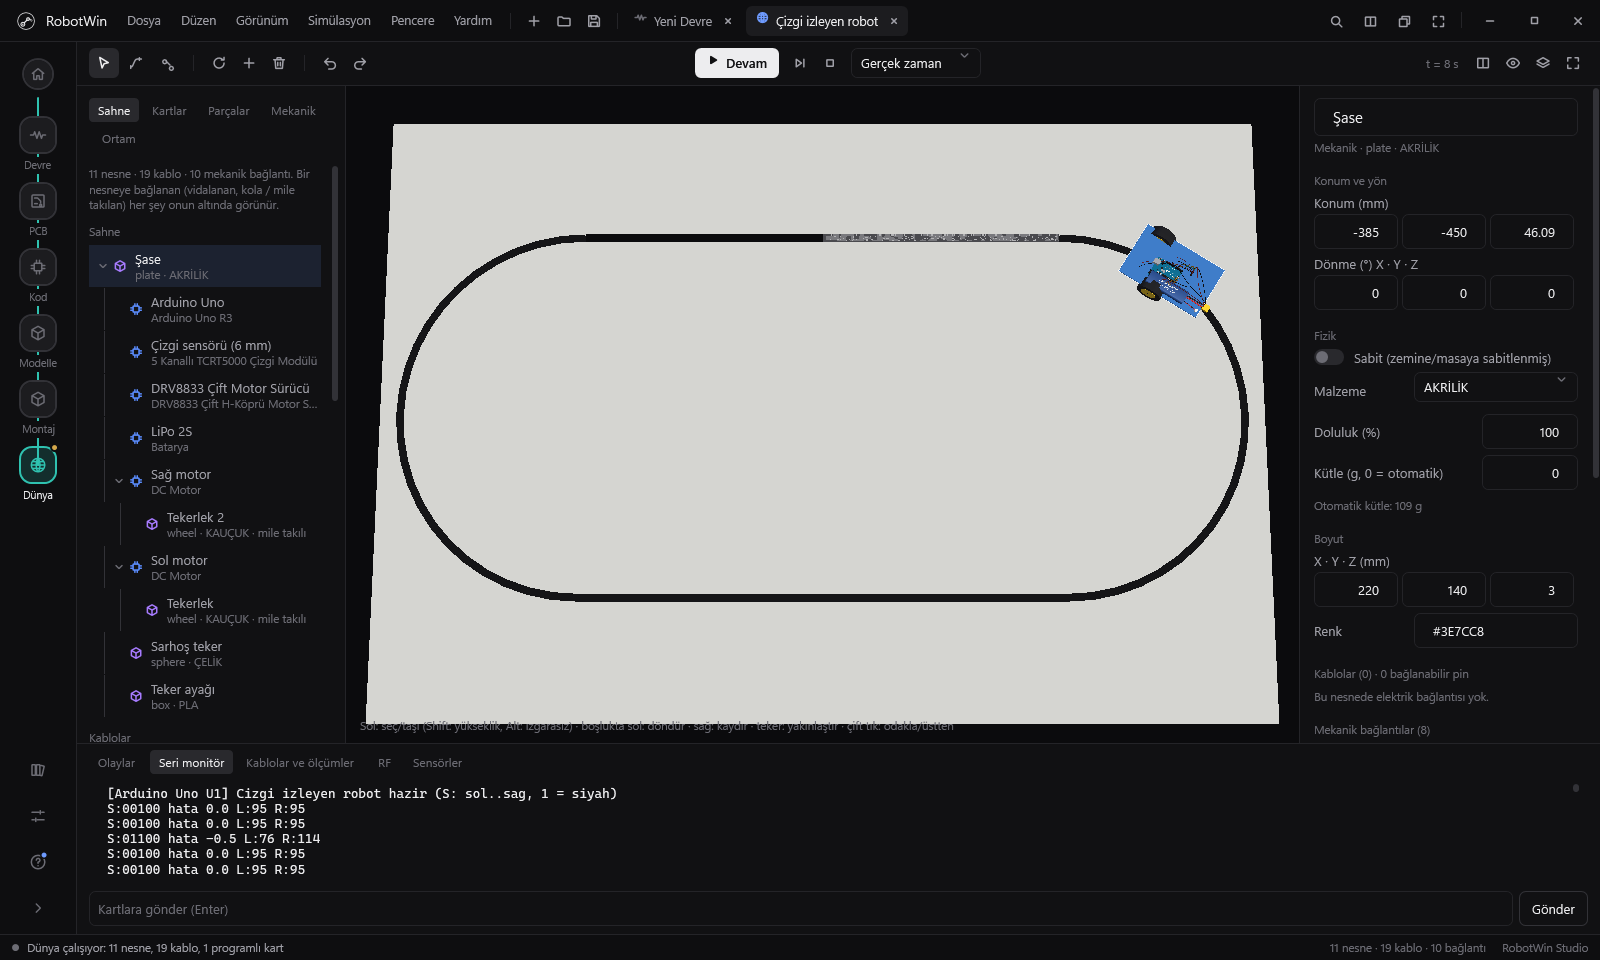
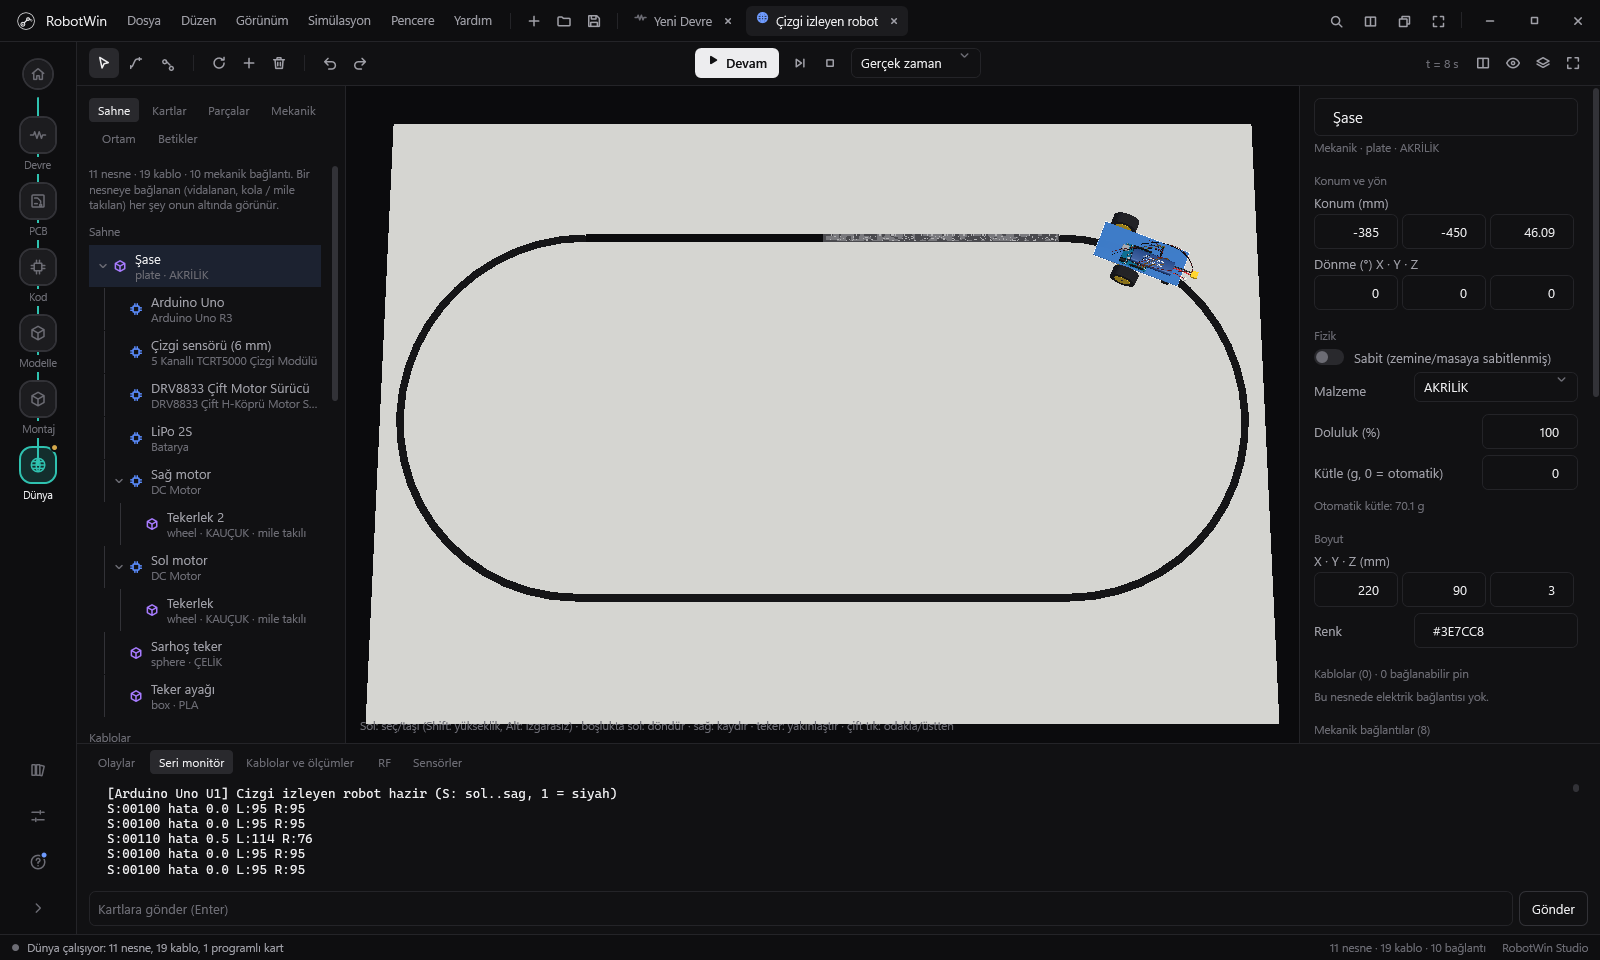
İç içe geçme engellendi: montaj içinde de çarpışma, başlangıç çakışma denetimi
- Önceden bir montajdaki tüm parçalar birbiriyle çarpışmıyordu (tekerlek şaseden geçebiliyordu).
  Artık yalnızca doğrudan ya da tek ara gövdeyle bağlı parçalar (ör. mile takılı tekerlek–motor)
  çarpışmayı atlar; diğer her şey gerçekteki gibi çarpışır.
- Dünya başlarken iç içe başlayan parçalar olay günlüğüne uyarı olarak yazılır;
  --overlap-report tüm şablonları denetler (hepsi temiz).
- Düzeltilen yerleşimler: çizgi izleyen (tekerlekler şasenin 18,9 mm içindeydi, pil tekerleğe
  değiyordu), mekanum, araba (tekerlek–şase arası boşluk). Başsız çalıştırıcı arabayı
  ayrıntılı TT motor ölçüleriyle kurar (tekerlek kendi milinde döner).

Changed region(s): [[0.6875, 0.2188, 0.7812, 0.3438], [0.9688, 0.4375, 1.0, 0.5]]

diff --git a/CoreSim/src/RobotTwin.CoreSim/Sandbox/WorldPhysics.Overlap.cs b/CoreSim/src/RobotTwin.CoreSim/Sandbox/WorldPhysics.Overlap.cs
@@ -1,0 +1,144 @@
+using System;
+using System.Collections.Generic;
+using System.Linq;
+using RobotTwin.CoreSim.Mechanics;
+
+namespace RobotTwin.CoreSim.Sandbox
+{
+    /// <summary>
+    /// Collision filtering inside assemblies and detection of parts that start inside each other.
+    /// Only parts that are joined directly, or through a single intermediate body (a wheel on a
+    /// motor's shaft rotor, two parts screwed onto the same plate) skip collisions with each other;
+    /// everything else in an assembly collides like in the real world, so a wheel cannot pass
+    /// through the chassis it is mounted under.
+    /// </summary>
+    public sealed partial class WorldPhysics
+    {
+        /// <summary>Joint hops within which two bodies of one assembly do not collide.</summary>
+        public const int NoCollideHops = 2;
+
+        private void FilterAssemblyCollisions()
+        {
+            var adjacency = new Dictionary<SceneBody, List<SceneBody>>();
+            void Link(SceneBody a, SceneBody b)
+            {
+                if (!adjacency.TryGetValue(a, out var la)) adjacency[a] = la = new List<SceneBody>();
+                if (!adjacency.TryGetValue(b, out var lb)) adjacency[b] = lb = new List<SceneBody>();
+                la.Add(b);
+                lb.Add(a);
+            }
+
+            foreach (var j in Scene.Joints)
+            {
+                if (j.B != null) Link(j.A, j.B);
+            }
+
+            var seen = new HashSet<(SceneBody, SceneBody)>();
+            foreach (var start in adjacency.Keys)
+            {
+                // Breadth-first up to NoCollideHops joints away.
+                var depth = new Dictionary<SceneBody, int> { [start] = 0 };
+                var queue = new Queue<SceneBody>();
+                queue.Enqueue(start);
+                while (queue.Count > 0)
+                {
+                    var b = queue.Dequeue();
+                    int d = depth[b];
+                    if (d == NoCollideHops) continue;
+                    foreach (var n in adjacency[b])
+                    {
+                        if (depth.ContainsKey(n)) continue;
+                        depth[n] = d + 1;
+                        queue.Enqueue(n);
+                    }
+                }
+
+                foreach (var other in depth.Keys)
+                {
+                    if (ReferenceEquals(other, start)) continue;
+                    var key = start.GetHashCode() <= other.GetHashCode() ? (start, other) : (other, start);
+                    if (seen.Add(key)) Scene.NoCollide.Add(key);
+                }
+            }
+        }
+
+        /// <summary>
+        /// Pairs of objects whose collision shapes overlap by more than <paramref name="tolerance"/> (m)
+        /// although they are meant to collide — e.g. a wheel placed inside the chassis. Uses oriented
+        /// bounding boxes of the collision shapes (separating-axis test) and reports the overlap depth.
+        /// </summary>
+        public IReadOnlyList<(string A, string B, double Depth)> FindInterpenetrations(double tolerance = 0.0005)
+        {
+            var result = new List<(string, string, double)>();
+            var ignore = new HashSet<(SceneBody, SceneBody)>();
+            foreach (var (a, b) in Scene.NoCollide)
+            {
+                ignore.Add((a, b));
+                ignore.Add((b, a));
+            }
+
+            var list = _items.Values.Where(i => i.Body.Collides && i.Body.EffectiveShape != null).ToList();
+            for (int x = 0; x < list.Count; x++)
+            {
+                for (int y = x + 1; y < list.Count; y++)
+                {
+                    var a = list[x].Body;
+                    var b = list[y].Body;
+                    if (a.IsStatic && b.IsStatic) continue;
+                    if (ignore.Contains((a, b))) continue;
+                    double depth = ObbOverlap(a, b);
+                    if (depth > tolerance) result.Add((list[x].Object.Id, list[y].Object.Id, depth));
+                }
+            }
+
+            return result;
+        }
+
+        private static (Vec3 C, Vec3[] Axes, Vec3 Half) Obb(SceneBody body)
+        {
+            var s = body.EffectiveShape!;
+            Vec3 half = s.Kind switch
+            {
+                ShapeKind.Box => s.HalfExtents,
+                ShapeKind.Sphere => new Vec3(s.Radius, s.Radius, s.Radius),
+                ShapeKind.Cylinder => new Vec3(s.Radius, s.Radius, s.HalfHeight),
+                _ => s.HalfExtents.LengthSquared > 0 ? s.HalfExtents : new Vec3(s.BoundingRadius, s.BoundingRadius, s.BoundingRadius)
+            };
+            var q = body.Orientation;
+            return (body.Position, new[] { q.Rotate(Vec3.UnitX), q.Rotate(Vec3.UnitY), q.Rotate(Vec3.UnitZ) }, half);
+        }
+
+        /// <summary>Penetration depth of two oriented boxes (0 when separated), minimum over the 15 SAT axes.</summary>
+        private static double ObbOverlap(SceneBody ba, SceneBody bb)
+        {
+            var a = Obb(ba);
+            var b = Obb(bb);
+            var d = b.C - a.C;
+            double min = double.PositiveInfinity;
+            IEnumerable<Vec3> Axes()
+            {
+                foreach (var u in a.Axes) yield return u;
+                foreach (var v in b.Axes) yield return v;
+                foreach (var u in a.Axes)
+                {
+                    foreach (var v in b.Axes)
+                    {
+                        var c = u.Cross(v);
+                        if (c.LengthSquared > 1e-10) yield return c.Normalized();
+                    }
+                }
+            }
+
+            foreach (var axis in Axes())
+            {
+                double ra = a.Half.X * Math.Abs(a.Axes[0].Dot(axis)) + a.Half.Y * Math.Abs(a.Axes[1].Dot(axis)) + a.Half.Z * Math.Abs(a.Axes[2].Dot(axis));
+                double rb = b.Half.X * Math.Abs(b.Axes[0].Dot(axis)) + b.Half.Y * Math.Abs(b.Axes[1].Dot(axis)) + b.Half.Z * Math.Abs(b.Axes[2].Dot(axis));
+                double overlap = ra + rb - Math.Abs(d.Dot(axis));
+                if (overlap <= 0) return 0;
+                if (overlap < min) min = overlap;
+            }
+
+            return min;
+        }
+    }
+}

diff --git a/CoreSim/tests/RobotTwin.CoreSim.Tests/AutomationApiTests.cs b/CoreSim/tests/RobotTwin.CoreSim.Tests/AutomationApiTests.cs
@@ -70,7 +70,7 @@ namespace RobotTwin.CoreSim.Tests
         {
             (Vec3, string) Run(int seed)
             {
-                var r = new WorldRunner(WorldExamples.Car(PartLibrary.Default), Options(seed));
+                var r = new WorldRunner(WorldExamples.CarDetailed(PartLibrary.Default), Options(seed));
                 r.Sensors.Add(new SensorSpec { Name = "imu", Type = "imu", Object = "O1", Params = new JsonObject { ["accel_noise"] = 0.05 } });
                 r.DriveDifferential(0.15, 0.4, new JsonObject());
                 for (int i = 0; i < 60; i++) r.Step(0.01);
@@ -91,7 +91,7 @@ namespace RobotTwin.CoreSim.Tests
         [Fact]
         public void ResetRestoresTheInitialStateAndReplaysIdentically()
         {
-            var r = new WorldRunner(WorldExamples.Car(PartLibrary.Default), Options(1));
+            var r = new WorldRunner(WorldExamples.CarDetailed(PartLibrary.Default), Options(1));
             var start = PoseOf(r, "O1");
             for (int i = 0; i < 40; i++) r.Step(0.01);
             var first = PoseOf(r, "O1");
@@ -111,7 +111,7 @@ namespace RobotTwin.CoreSim.Tests
         [Fact]
         public void StepAdvancesExactlyTheRequestedSimulatedTime()
         {
-            var r = new WorldRunner(WorldExamples.Car(PartLibrary.Default), Options());
+            var r = new WorldRunner(WorldExamples.CarDetailed(PartLibrary.Default), Options());
             for (int i = 0; i < 7; i++) Assert.Equal(0.013, r.Step(0.013), 12);
             Assert.InRange(r.Time, 0.091 - 1e-9, 0.091 + 1e-9);
             Assert.True(r.LastStepWall > 0);
@@ -153,7 +153,7 @@ namespace RobotTwin.CoreSim.Tests
         [Fact]
         public void DifferentialDriveGoesForwardAndTurnsLeft()
         {
-            var r = new WorldRunner(WorldExamples.Car(PartLibrary.Default), Options());
+            var r = new WorldRunner(WorldExamples.CarDetailed(PartLibrary.Default), Options());
             for (int i = 0; i < 30; i++) r.Step(0.01);   // settle
             Assert.True(r.TryGetBody("O1", out var s0));
             r.DriveDifferential(0.2, 0, new JsonObject());
@@ -162,7 +162,7 @@ namespace RobotTwin.CoreSim.Tests
             var fwd = s0.Orientation.Rotate(Vec3.UnitX);
             double along = (s1.Position - s0.Position).Dot(fwd);
             _out.WriteLine($"forward {along:F3} m in 1 s");
-            Assert.InRange(along, 0.12, 0.26);
+            Assert.InRange(along, 0.12, 0.30);   // open-loop helper: 0.2 m/s commanded
             r.DriveDifferential(0, 1.0, new JsonObject());
             double yaw0 = s1.Orientation.ToEuler().Yaw;
             for (int i = 0; i < 100; i++) r.Step(0.01);
@@ -189,7 +189,7 @@ namespace RobotTwin.CoreSim.Tests
         [Fact]
         public void VirtualLidarAndCameraSeeAnObstacle()
         {
-            var w = WorldExamples.Car(PartLibrary.Default);
+            var w = WorldExamples.CarDetailed(PartLibrary.Default);
             var wall = w.AddBody("box", 0.1, 1.0, 0.3, new WorldPose { X = 0.6 });
             wall.IsStatic = true;
             var r = new WorldRunner(w, Options());
@@ -264,7 +264,7 @@ namespace RobotTwin.CoreSim.Tests
         [Fact]
         public void BakedGeometryRoundTripsAndDrivesTheSameRun()
         {
-            var world = WorldExamples.Car(PartLibrary.Default);
+            var world = WorldExamples.CarDetailed(PartLibrary.Default);
             var approx = new ApproximateGeometry(world, PartLibrary.Default);
             var baked = BakedGeometry.Parse(BakedGeometry.Export(world, approx), approx);
             foreach (var o in world.Objects)

diff --git a/CoreSim/src/RobotTwin.CoreSim/Sandbox/WorldExamples.cs b/CoreSim/src/RobotTwin.CoreSim/Sandbox/WorldExamples.cs
@@ -11,13 +11,21 @@ namespace RobotTwin.CoreSim.Sandbox
         /// <param name="shaftX">Output shaft position along the motor (m, motor frame).</param>
         /// <param name="shaftZ">Output shaft height above the motor base (m).</param>
         /// <param name="shaftTip">Where the wheel hub sits on the shaft, sideways from the motor centre (m).</param>
+        /// <summary>
+        /// The car laid out for the app's detailed TT gear motor (gearbox 22.4 mm high, output shaft
+        /// 22.7 mm behind the motor origin, 11.2 mm up, shaft end 18.4 mm to the side) — the geometry
+        /// the Studio and the headless runner use, so the wheels sit exactly on their axles.
+        /// </summary>
+        public static WorldDocument CarDetailed(PartLibrary lib) => Car(lib, 0.0224, -0.0227, 0.0112, 0.0184);
+
         public static WorldDocument Car(PartLibrary lib, double motorHeight = 0.0188, double shaftX = -0.011, double shaftZ = 0.0094, double shaftTip = 0.0185)
         {
             var w = new WorldDocument { Title = "Araba" };
             // Motors hang under the plate with their shafts at wheel-radius height, so the 65 mm wheels touch the floor.
             const double r = 0.0325;
             double motorZ = r - shaftZ, plateZ = motorZ + motorHeight;
-            var plate = w.AddBody("plate", 0.16, 0.10, 0.003, new WorldPose { X = 0, Z = plateZ }, "PLA");
+            // 90 mm wide: the wheels run 5 mm clear of the chassis edge (they collide with it like in reality).
+            var plate = w.AddBody("plate", 0.16, 0.09, 0.003, new WorldPose { X = 0, Z = plateZ }, "PLA");
             var ml = w.AddComponent(lib, "motor-tt", new WorldPose { X = -0.03, Y = 0.03, Z = motorZ });
             var mr = w.AddComponent(lib, "motor-tt", new WorldPose { X = -0.03, Y = -0.03, Z = motorZ, Yaw = 180 });
             var wl = w.AddBody("wheel", 0.065, 0.026, 0.026, new WorldPose { X = -0.03 + shaftX, Y = 0.03 + shaftTip + 0.015, Z = 0 });

diff --git a/Studio/RobotWin.Studio/Examples/SenseTemplates.cs b/Studio/RobotWin.Studio/Examples/SenseTemplates.cs
@@ -59,7 +59,7 @@ namespace RobotWin.Studio.Examples
             double motorZ = r - shaftZ, plateZ = motorZ + motorHeight;
             double x0 = -0.385, y0 = -0.45;   // sensor bar starts on the bottom straight, heading +X
 
-            var plate = w.AddBody("plate", 0.22, 0.14, 0.003, new WorldPose { X = x0, Y = y0, Z = plateZ }, "AKRİLİK");
+            var plate = w.AddBody("plate", 0.22, 0.09, 0.003, new WorldPose { X = x0, Y = y0, Z = plateZ }, "AKRİLİK");   // 90 mm: the wheels run clear of the edges
             plate.Name = "Şase";
             plate.Color = "#3E7CC8";
             var ml = w.AddComponent(Lib, "motor-tt", new WorldPose { X = x0 - 0.04, Y = y0 + 0.03, Z = motorZ });
@@ -79,7 +79,7 @@ namespace RobotWin.Studio.Examples
             uno.Parameters["firmware"] = "builtin:line-follower.hex";
             uno.Parameters["usb"] = "false";
             var drv = w.AddComponent(Lib, "drv8833", new WorldPose { X = x0 + 0.045, Y = y0 + 0.035, Z = plateZ + 0.003 });
-            var bat = w.AddComponent(Lib, "bat-2s-lipo", new WorldPose { X = x0 + 0.01, Y = y0 - 0.045, Z = plateZ + 0.003 });
+            var bat = w.AddComponent(Lib, "bat-2s-lipo", new WorldPose { X = x0 + 0.03, Y = y0 - 0.012, Z = plateZ + 0.003 });   // between the wheels, not over them
             bat.Name = "LiPo 2S";
             var bar = w.AddComponent(Lib, "line-5ch-module", new WorldPose { X = x0 + 0.085, Y = y0, Z = 0.006 });
             bar.Name = "Çizgi sensörü (6 mm)";

diff --git a/Studio/RobotWin.Studio/MainWindow.xaml.cs b/Studio/RobotWin.Studio/MainWindow.xaml.cs
@@ -60,6 +60,23 @@ namespace RobotWin.Studio
         private WindowBehavior? _behavior;
         private readonly PerfOverlay _perf = new PerfOverlay();
 
+        /// <summary>--overlap-report: interpenetrating parts of every world template.</summary>
+        public string OverlapReportAllTemplates()
+        {
+            var sb = new System.Text.StringBuilder();
+            foreach (var t in Examples.WorldTemplates.All)
+            {
+                NewWorld(t.Build());
+                Navigate("world");
+                UpdateLayout();
+                var list = _world.OverlapReport();
+                sb.AppendLine($"{t.Id}: {(list.Count == 0 ? "temiz" : list.Count + " çakışma")}");
+                foreach (var l in list) sb.AppendLine("    " + l);
+            }
+
+            return sb.ToString();
+        }
+
         /// <summary>--bench: run / stop the active world.</summary>
         public void RunWorldForBench() => _world.ToggleRun();
 

diff --git a/Studio/RobotWin.Studio/Pages/WorldPage.xaml.cs b/Studio/RobotWin.Studio/Pages/WorldPage.xaml.cs
@@ -1166,6 +1166,15 @@ namespace RobotWin.Studio.Pages
 
         private void OnRun(object sender, RoutedEventArgs e) => Run();
 
+        /// <summary>Parts of the active world that start inside each other (for --overlap-report and checks).</summary>
+        public System.Collections.Generic.IReadOnlyList<string> OverlapReport()
+        {
+            var world = World;
+            if (world == null) return System.Array.Empty<string>();
+            var physics = RobotTwin.CoreSim.Sandbox.WorldPhysics.Build(world, Scene.GeometryOf, null);
+            return physics.FindInterpenetrations(0.001).Select(o => $"{world.Find(o.A)?.Name ?? o.A} ↔ {world.Find(o.B)?.Name ?? o.B}: {o.Depth * 1000:F1} mm").ToList();
+        }
+
         /// <summary>Run / pause / resume the world simulation (menu bar).</summary>
         public void ToggleRun() => Run();
 

diff --git a/Studio/RobotWin.Studio/World/WorldSession.cs b/Studio/RobotWin.Studio/World/WorldSession.cs
@@ -121,6 +121,11 @@ namespace RobotWin.Studio.World
                 try
                 {
                     Physics = WorldPhysics.Build(world, geometry, Circuit);
+                    // Parts that start inside each other would be pushed apart violently: say which ones.
+                    foreach (var (oa, ob, depth) in Physics.FindInterpenetrations(0.001))
+                    {
+                        Log.Add(new SimLogEntry(0, "fizik", $"{world.Find(oa)?.Name ?? oa} ile {world.Find(ob)?.Name ?? ob} iç içe başlıyor ({depth * 1000:F1} mm); konumlarını ayırın.", AnalogEventKind.Warning));
+                    }
                 }
                 catch (Exception ex) when (ex is ArgumentException || ex is InvalidOperationException)
                 {

diff --git a/Studio/RobotWin.Studio/App.xaml.cs b/Studio/RobotWin.Studio/App.xaml.cs
@@ -82,6 +82,17 @@ namespace RobotWin.Studio
             var window = new MainWindow();
             MainWindow = window;
 
+            if (Arg("--overlap-report") is { } overlapPath)
+            {
+                window.Left = -2000;
+                window.ShowActivated = false;
+                window.ShowInTaskbar = false;
+                window.Show();
+                File.WriteAllText(overlapPath, window.OverlapReportAllTemplates());
+                window.ForceClose();
+                return;
+            }
+
             if (Arg("--bench") is { } benchPath)
             {
                 RunBench(window, benchPath, Arg("--bench-seconds"));

diff --git a/CoreSim/tests/RobotTwin.CoreSim.Tests/ReadyPartsTests.cs b/CoreSim/tests/RobotTwin.CoreSim.Tests/ReadyPartsTests.cs
@@ -290,7 +290,7 @@ namespace RobotTwin.CoreSim.Tests
         {
             var w = new WorldDocument();
             double motorZ = 0.0325 - TtPivot.Z;
-            var chassis = w.AddBody("plate", 0.17, 0.10, 0.003, new WorldPose { Z = motorZ + 0.0188 });
+            var chassis = w.AddBody("plate", 0.17, 0.08, 0.003, new WorldPose { Z = motorZ + 0.0188 });   // wheels run clear of the edge
             chassis.MassKg = 0.06;
             var bat = w.AddComponent(Lib, "bat-4aa", new WorldPose { Z = chassis.Pose.Z + 0.003 });
             w.Joints.Add(new WorldJoint { Id = w.NextId("J"), ObjectA = bat.Id, ObjectB = chassis.Id });

diff --git a/CoreSim/src/RobotTwin.CoreSim/Sandbox/WorldPhysics.cs b/CoreSim/src/RobotTwin.CoreSim/Sandbox/WorldPhysics.cs
@@ -103,7 +103,7 @@ namespace RobotTwin.CoreSim.Sandbox
             p.BuildMachines(world);   // [arm] robot arms, tools, conveyors, light curtains
             foreach (var j in world.Joints) p.AddJoint(world, j);
             p.FinishReady(world);   // [objs] propellers on shafts, light rotors
-            p.IgnoreSelfCollisions();
+            p.FilterAssemblyCollisions(); // only parts within two joints of each other skip collisions (WorldPhysics.Overlap.cs)
             p.Sdk = RobotTwin.CoreSim.Sdk.WorldSdkRuntime.Attach(world, p, circuit);   // [sdk] environment, force fields, behaviours
             return p;
         }

diff --git a/CoreSim/tests/RobotTwin.CoreSim.Tests/WorldPhysicsTests.cs b/CoreSim/tests/RobotTwin.CoreSim.Tests/WorldPhysicsTests.cs
@@ -169,6 +169,16 @@ namespace RobotTwin.CoreSim.Tests
         }
 
         [Fact]
+        public void CarExampleStartsWithoutPartsInsideEachOther()
+        {
+            var w = WorldExamples.Car(Lib);
+            var p = WorldPhysics.Build(w, Geometry, null);
+            var overlaps = p.FindInterpenetrations();
+            foreach (var (a, b, d) in overlaps) _out.WriteLine($"{w.Find(a)?.Name} ↔ {w.Find(b)?.Name}: {d * 1000:F1} mm");
+            Assert.Empty(overlaps);
+        }
+
+        [Fact]
         public void TwoWheelCarDrivesAcrossTheFloor()
         {
             var w = WorldExamples.Car(Lib);

diff --git a/Studio/RobotWin.Studio/Examples/WorldTemplates.Ready.cs b/Studio/RobotWin.Studio/Examples/WorldTemplates.Ready.cs
@@ -91,7 +91,7 @@ namespace RobotWin.Studio.Examples
             var wheel = ReadyParts.Find("mecanum-65-a")!;
             double R = wheel.Radius;
             double top = R + 0.0112;
-            var chassis = w.AddBody("plate", 0.19, 0.10, 0.003, new WorldPose { Z = top }, "AKRİLİK");
+            var chassis = w.AddBody("plate", 0.19, 0.07, 0.003, new WorldPose { Z = top }, "AKRİLİK");   // wheels run clear of the edge
             chassis.Name = "Şase";
             chassis.Color = "#3E7CC8";
             var bat = w.AddComponent(Lib, "bat-4aa", new WorldPose { Z = top + 0.003, Yaw = 90 });
